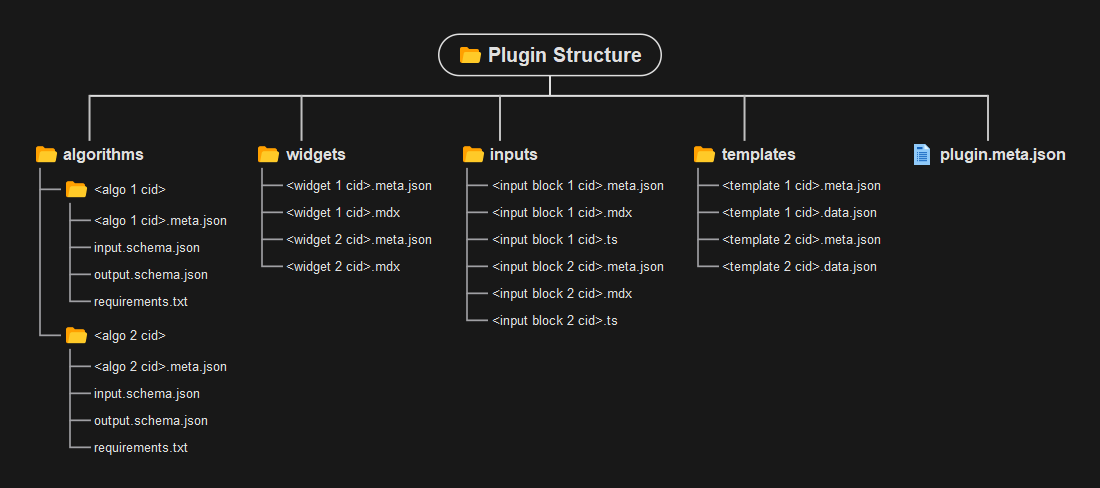
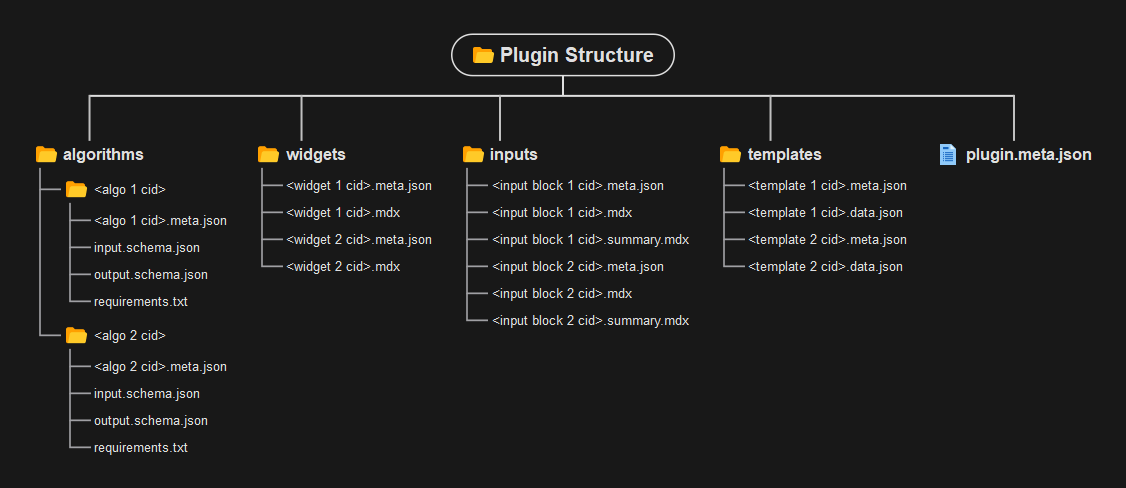
update plugin structure image and link

diff --git a/docs/plugins/widget/Plugin.md b/docs/plugins/widget/Plugin.md
@@ -15,7 +15,7 @@ This section defines the terminology used.
 ## Plugin Structure
 
 The diagram below describes the folders and files that may be found under each plugin.
-![Plugin Structure Image](images/Plugin-Structure.png?raw=true)
+![Plugin Structure Image](../../images/plugin_structure.png?raw=true)
 
 Each of the component type folder can contain one or more components.
 
